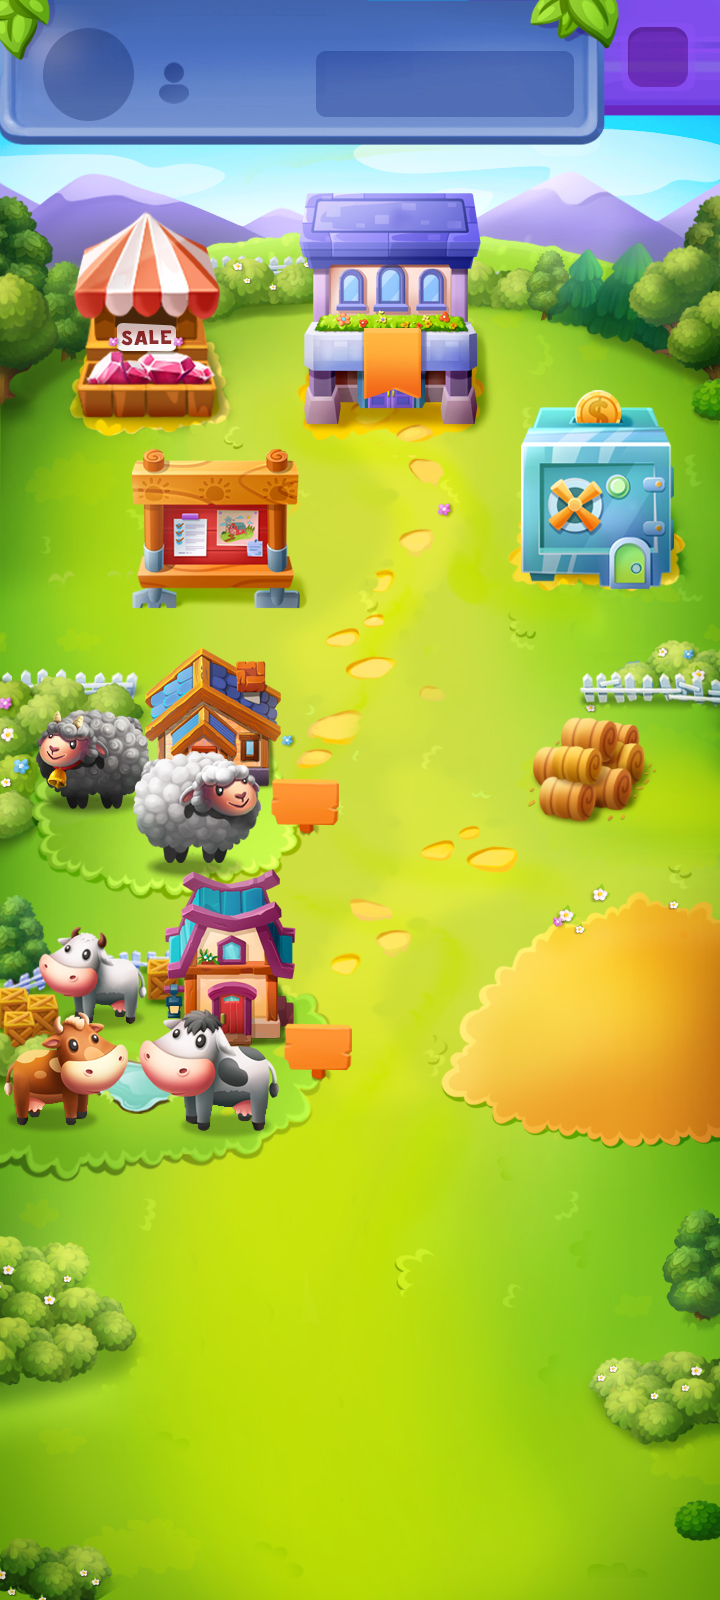
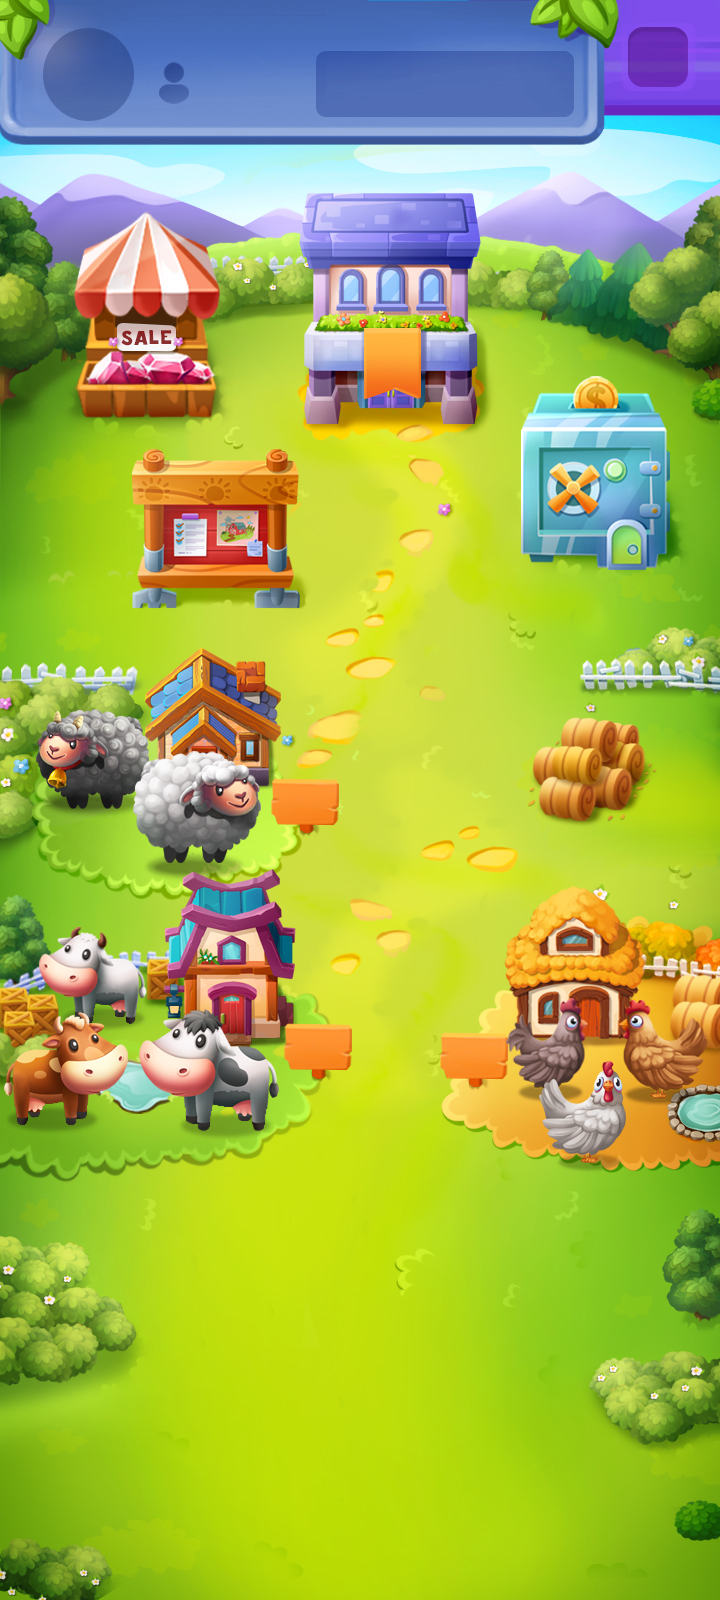
fix money animation

diff --git a/src/scripts/scenes/ClanFarm.ts b/src/scripts/scenes/ClanFarm.ts
@@ -294,7 +294,7 @@ export default class ClanFarm extends Phaser.Scene {
     // const graphics: Phaser.GameObjects.Graphics = this.add.graphics();
     // graphics.lineStyle(5, 0xFaaf00);
     // graphics.strokeRect(zone.x - zone.input.hitArea.width / 2, zone.y - zone.input.hitArea.height / 2, zone.input.hitArea.width, zone.input.hitArea.height);
-    new ClanFlagPole(this, { x: farmPosition.x + 59, y: farmPosition.y - 130 }).setDepth(2);
+    new ClanFlagPole(this, { x: farmPosition.x + 58, y: farmPosition.y - 125 }).setDepth(2);
 
     this.click(zone, () => {
       if (this.state.clan.sheep.cooldown <= 0) {
@@ -320,12 +320,19 @@ export default class ClanFarm extends Phaser.Scene {
   }
 
   private createChicken(): void {
-    const farmPosition: Iposition = { x: 580, y: 990 };
-    const sprite = this.add.sprite(farmPosition.x, farmPosition.y, 'clan-chicken-farm');
+    const farmPosition: Iposition = { x: 580, y: 1050 };
+    const width: number = 300;
+    const height: number = 270;
+    
+    const zone: Phaser.GameObjects.Zone = this.add.zone(farmPosition.x, farmPosition.y, width, height).setDropZone(undefined, () => {});
+    const graphics: Phaser.GameObjects.Graphics = this.add.graphics();
+    graphics.lineStyle(5, 0xFaccdd);
+    graphics.strokeRect(zone.x - zone.input.hitArea.width / 2, zone.y - zone.input.hitArea.height / 2, zone.input.hitArea.width, zone.input.hitArea.height);
+
     const textLevel: string = this.state.clan.chicken.cooldown > 0 ? String(this.state.clan.chicken.level - 1) : String(this.state.clan.chicken.level);
-    this.chickenLevelText = this.add.text(farmPosition.x - 106, farmPosition.y + 20, textLevel, levelTextStyle).setOrigin(0.5);
-    new ClanFlagPole(this, { x: farmPosition.x + 2, y: farmPosition.y - 160 }).setDepth(2);
-    this.click(sprite, () => {
+    this.chickenLevelText = this.add.text(farmPosition.x - 106, farmPosition.y + 10, textLevel, levelTextStyle).setOrigin(0.5);
+    new ClanFlagPole(this, { x: farmPosition.x, y: farmPosition.y - 175 }).setDepth(2);
+    this.click(zone, () => {
       if (this.state.clan.chicken.cooldown <= 0) {
         this.state.modal = {
           type: 18,
@@ -354,8 +361,8 @@ export default class ClanFarm extends Phaser.Scene {
     const height: number = 270;
     
     const textLevel: string = this.state.clan.cow.cooldown > 0 ? String(this.state.clan.cow.level - 1) : String(this.state.clan.cow.level);
-    this.cowLevelText = this.add.text(farmPosition.x + 169, farmPosition.y + 25, textLevel, levelTextStyle).setOrigin(0.5);
-    new ClanFlagPole(this, { x: farmPosition.x + 88, y: farmPosition.y - 150 }).setDepth(2);
+    this.cowLevelText = this.add.text(farmPosition.x + 169, farmPosition.y + 23, textLevel, levelTextStyle).setOrigin(0.5);
+    new ClanFlagPole(this, { x: farmPosition.x + 86, y: farmPosition.y - 150 }).setDepth(2);
 
     const zone: Phaser.GameObjects.Zone = this.add.zone(farmPosition.x, farmPosition.y, width, height).setDropZone(undefined, () => {});
     // const graphics: Phaser.GameObjects.Graphics = this.add.graphics();

diff --git a/src/scripts/general/basic.ts b/src/scripts/general/basic.ts
@@ -430,9 +430,15 @@ function exchange(ad: boolean = false): void {
     user.money += this.convertDiamonds(this.state.convertor.diamonds);
     this.game.scene.keys[this.state.farm].tryClanTask(10, 0, this.state.convertor.diamonds);
     if (this.scene.isActive('ClanFarm')) {
-      MoneyAnimation.create(this.game.scene.keys['ClanFarm'], `${this.state.farm.toLowerCase()}Coin`, { x: 495, y: -30 });
+      MoneyAnimation.create(this.game.scene.keys['ClanFarm'], `${this.state.farm.toLowerCase()}Coin`, {
+        x: this.game.scene.keys['ClanFarm'].cameras.main.centerX,
+        y: this.game.scene.keys['ClanFarm'].cameras.main.centerY, 
+      });
     } else if (this.scene.isActive('Profile')) {
-      MoneyAnimation.create(this.game.scene.keys['Profile'], `${this.state.farm.toLowerCase()}Coin`, { x: 495, y: -30 });
+      MoneyAnimation.create(this.game.scene.keys['Profile'], `${this.state.farm.toLowerCase()}Coin`, {
+        x: this.game.scene.keys['Profile'].cameras.main.centerX,
+        y: this.game.scene.keys['Profile'].cameras.main.centerY, 
+      });
     } else {
       MoneyAnimation.create(this.game.scene.keys[`${this.state.farm}Bars`]);
     }

diff --git a/src/scripts/components/animations/MoneyAnimation.ts b/src/scripts/components/animations/MoneyAnimation.ts
@@ -171,9 +171,15 @@ export default class MoneyAnimation  {
       if (this.texture !== 'diamond') this.target = { x: 495, y: 120 };
       else this.target = { x: 495, y: 30 };
     }
+    const alpha = { from: 0.8, to: 1 };
+
+    if (this.target.x === this.scene.cameras.main.centerX && this.target.y === this.scene.cameras.main.centerY) {
+      alpha.from = 0.5
+      alpha.to = 0;
+    }
     this.scene.tweens.add({
       targets: sprite,
-      alpha: { from: 0.8, to: 1 },
+      alpha: alpha,
       scale: { from: 0.1, to: 0.2},
       x: this.target.x,
       y: this.target.y,

diff --git a/src/scripts/scenes/Profile.ts b/src/scripts/scenes/Profile.ts
@@ -647,7 +647,7 @@ class Profile extends Phaser.Scene {
     // graphics.lineStyle(5, 0xFFFF00);
     // graphics.strokeRect(zone.x - zone.input.hitArea.width / 2, zone.y - zone.input.hitArea.height / 2, zone.input.hitArea.width, zone.input.hitArea.height);
     if (this.state.clan) {
-      new ClanFlagPole(this, { x: pos.x + 5, y: pos.y - 100 }).setDepth(2);
+      new ClanFlagPole(this, { x: pos.x, y: pos.y - 100 }).setDepth(2);
     }
     this.clanNotificator = new Notificator(this, { x: pos.x + 65, y: pos.y - 80 }, true);
     this.click(zone, (): void => {

diff --git a/src/scripts/components/clan/ClanFlagPole.ts b/src/scripts/components/clan/ClanFlagPole.ts
@@ -18,8 +18,8 @@ export default class ClanFlagPole extends Phaser.GameObjects.Sprite {
   private init(): void {
     this.avatar = this.scene.state.clan.avatar;
     this.flagPosition = {
-      x: this.x + 20, 
-      y: this.y - 17,
+      x: this.x + 24, 
+      y: this.y - 10,
     };
   }
 
